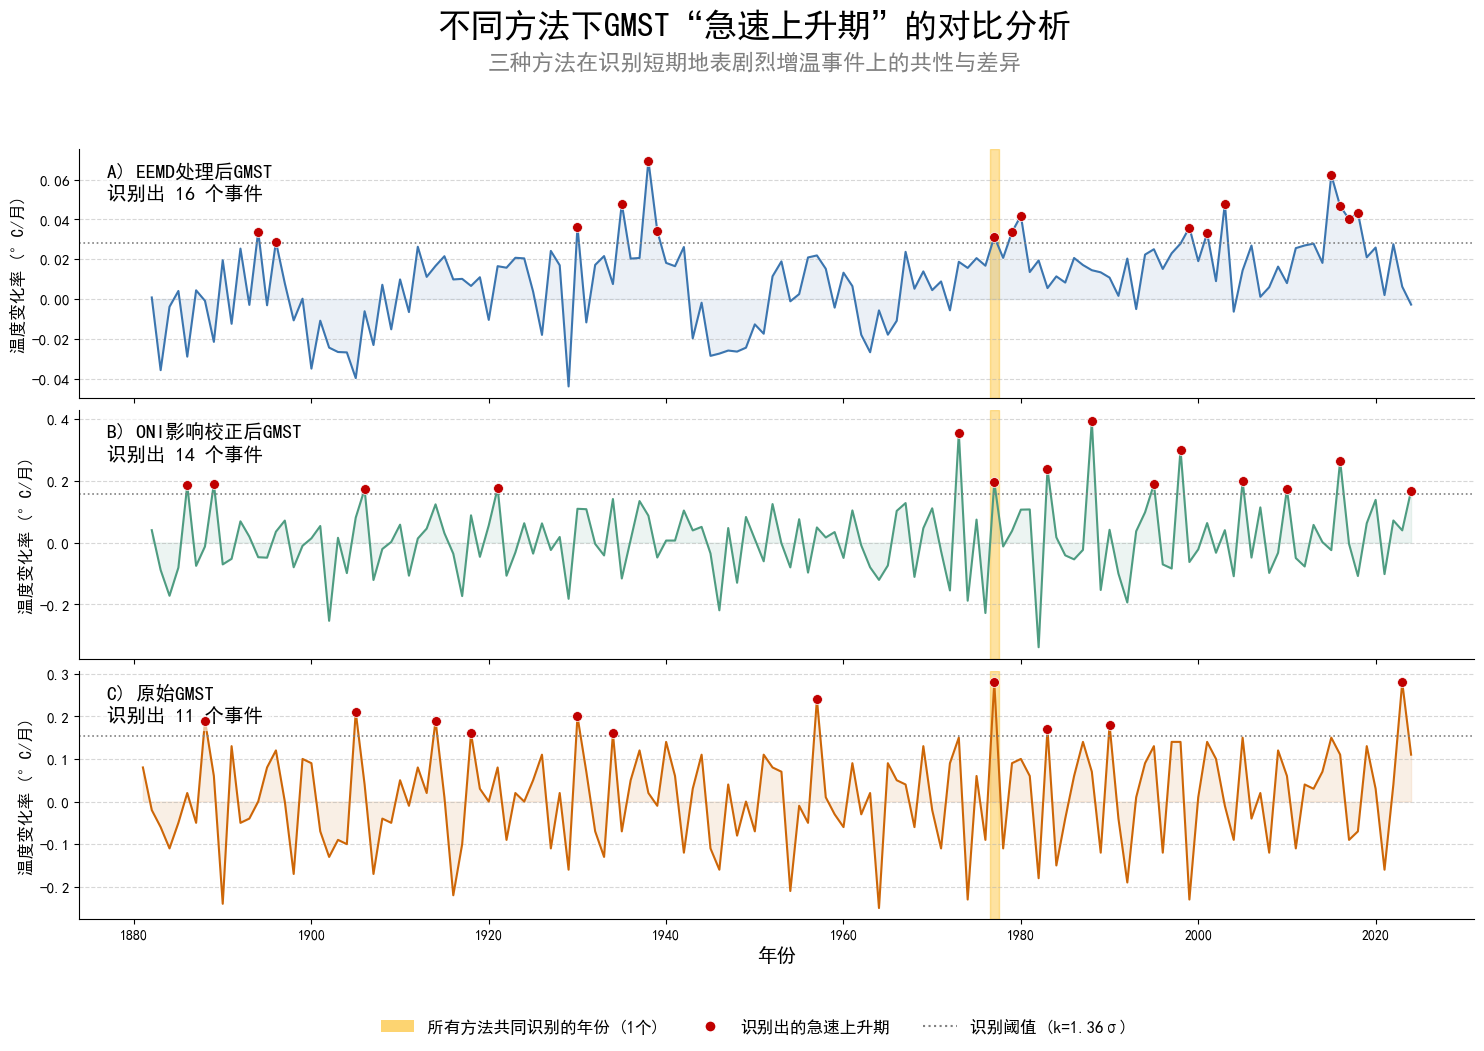
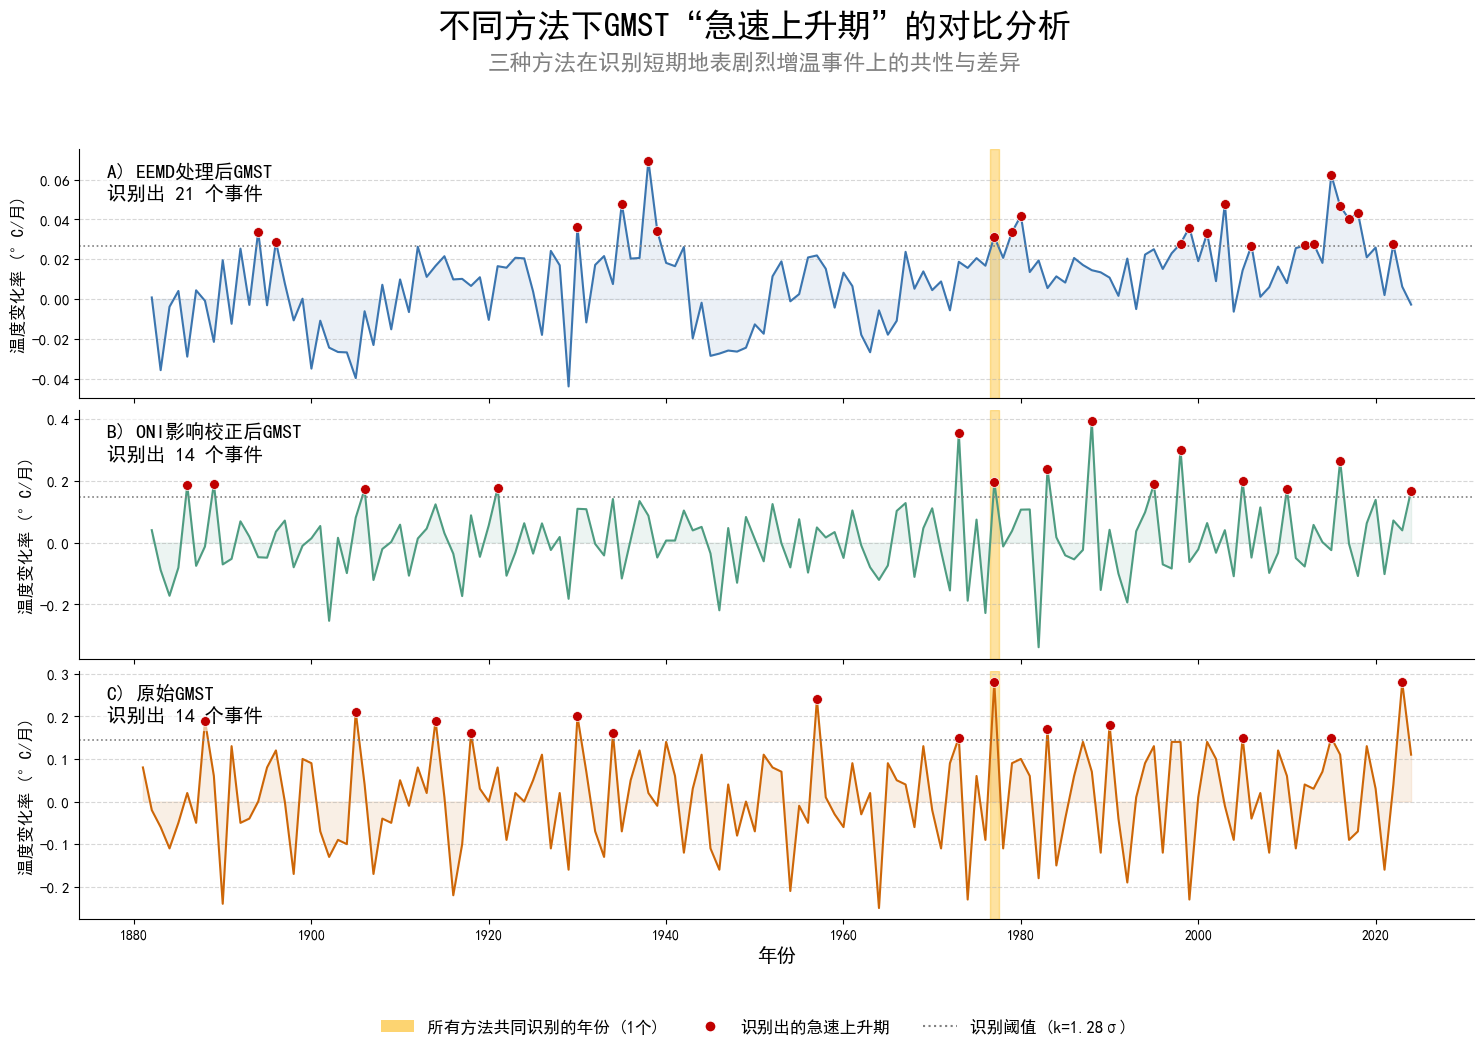
图更新

Changed region(s): [[0.8369, 0.2131, 0.8989, 0.2436], [0.9299, 0.2131, 0.9609, 0.2436], [0.7749, 0.2131, 0.8059, 0.2436]]

diff --git a/visionable/r_gmsl.py b/visionable/r_gmsl.py
@@ -7,7 +7,7 @@ from matplotlib.lines import Line2D
 from matplotlib.patches import Patch
 #%%
 # --- 1. 全局设置 ---
-k = 1.36  # 根据您的脚本，GMSL使用1.36作为标准差倍数
+k = 1.28  # 根据您的脚本，GMSL使用1.36作为标准差倍数
 
 # --- 2. 数据加载与准备 ---
 # 使用更清晰的变量名 (gmsl_...)
